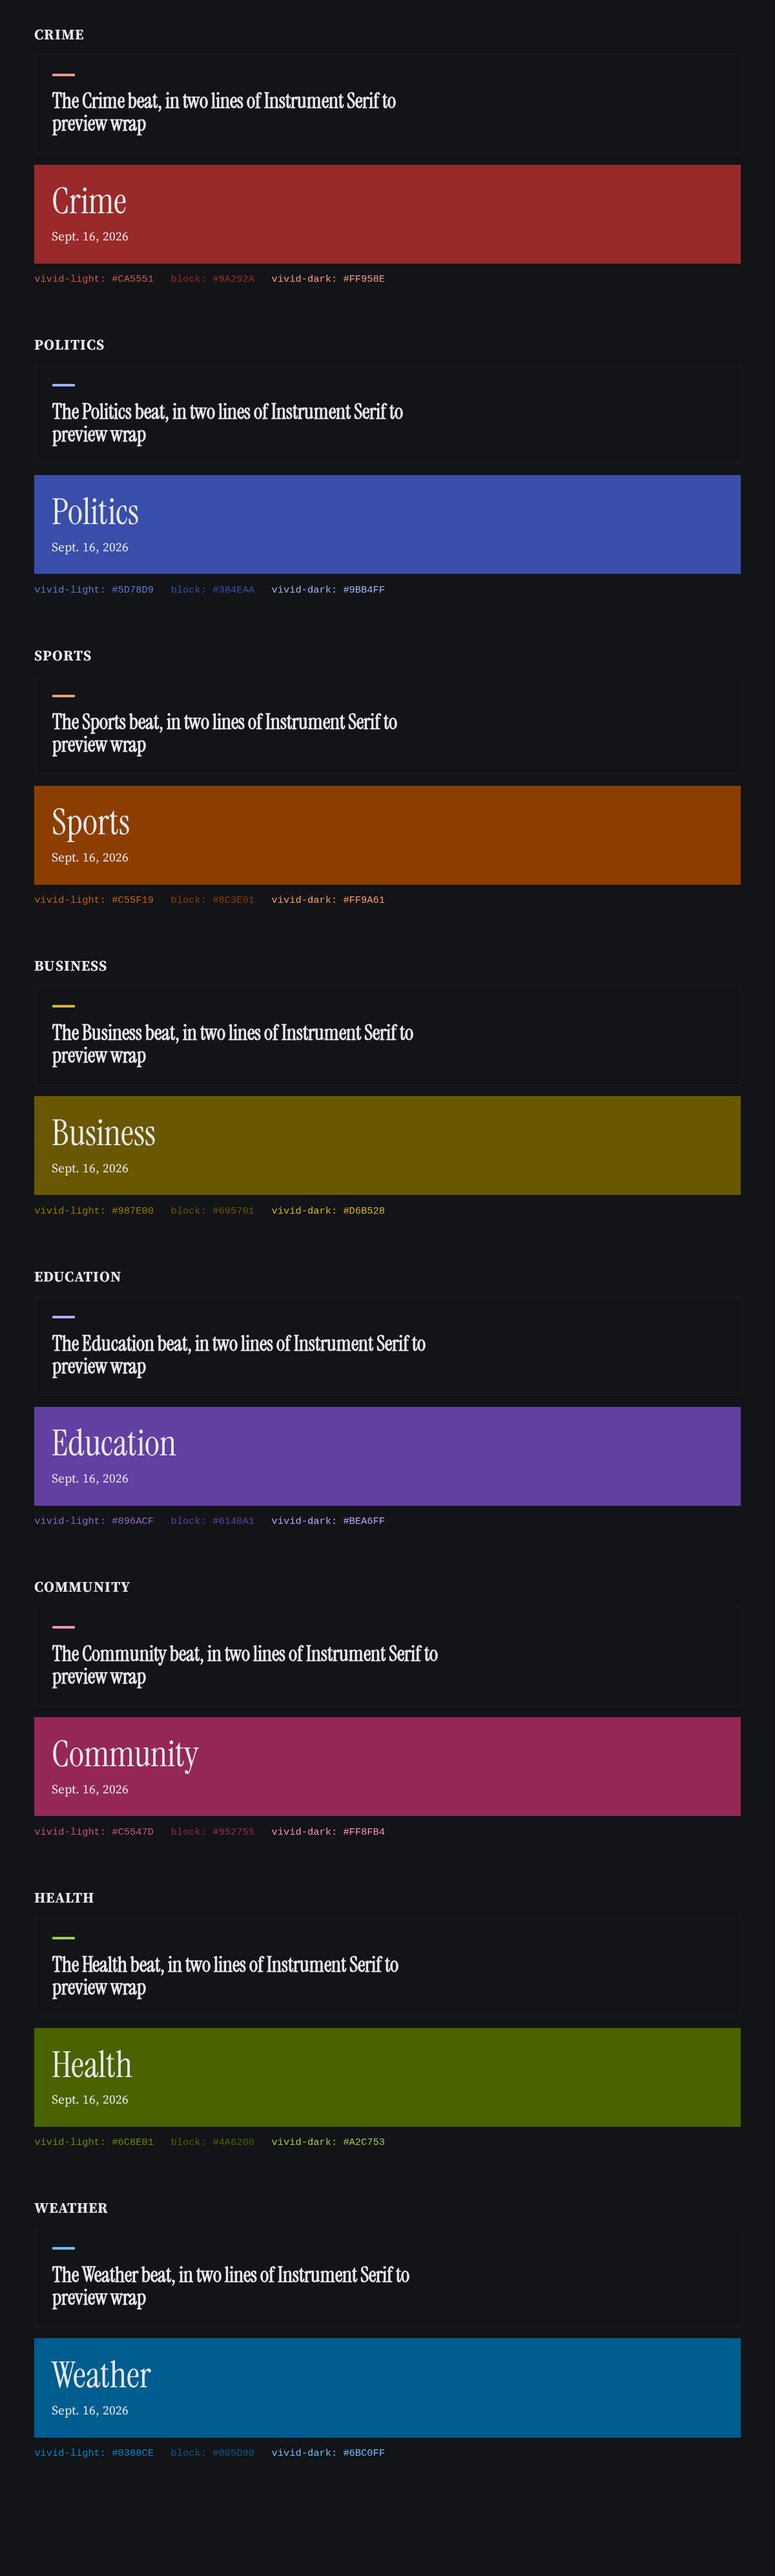
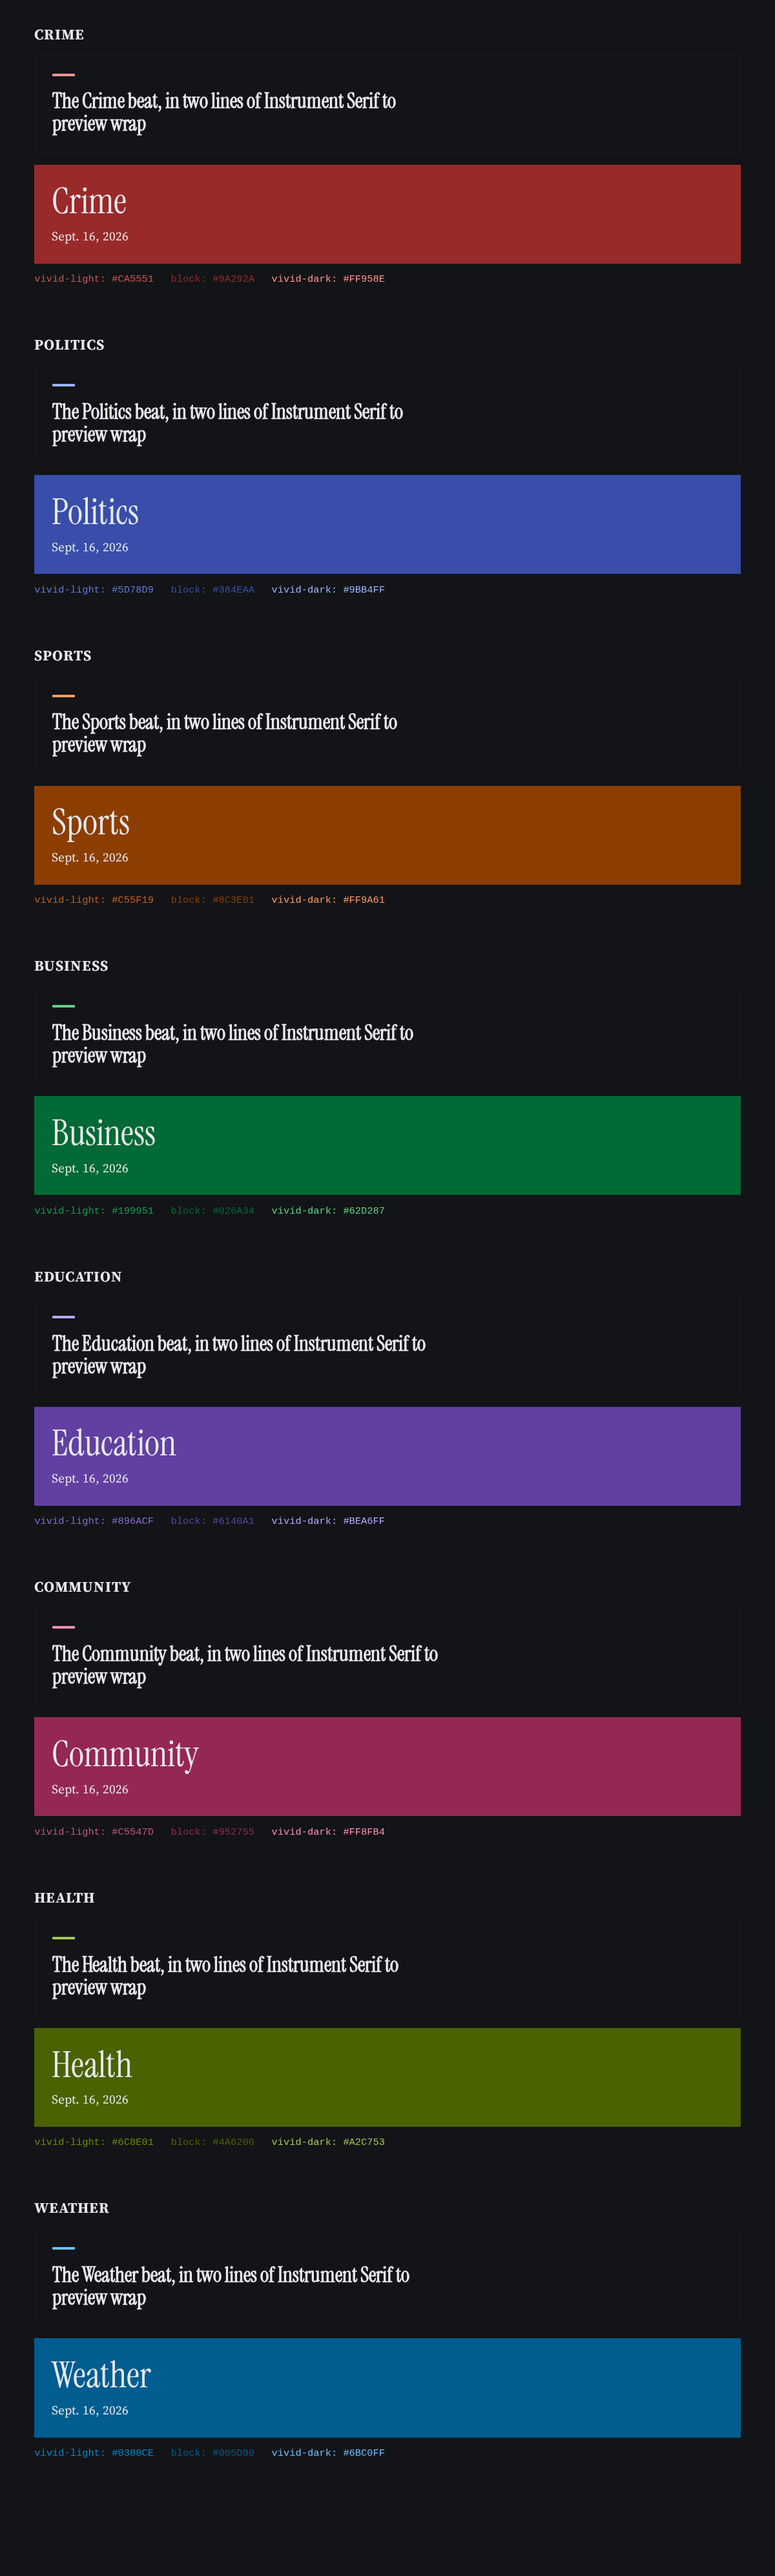
feat(01-16): regenerate swatch evidence, verify nav-stripe distinctness, close WINDOWS entry 3 (Task 2)
- pnpm run palette:swatches: regenerated both theme swatches with the
  new Business colour. Both PNGs newer than palette.json, >10KB,
  >=1200px wide; on-page hex labels verified against palette.md by the
  script's own check. Business now renders as a clear forest green in
  both themes -- no amber/olive/brown cast.
- node design/scripts/pw.mjs --project=all design/tests/content.spec.ts:
  37/37 passing in both Chromium and WebKit, including the nav-stripe
  pairwise-distinctness check per theme.
- .planning/WINDOWS.md: entry 3 marked fixed via `gsd-tools windows
  fixed 3`, description updated to record what actually happened --
  Sports was accepted by the owner in round 1 in their own words
  ("sports is more redish, thats ok", 01-APPROVAL.md), and Business was
  re-sampled outside the 40-100deg band entirely rather than accepted
  as a borderline colour. Entry 2 (politics photo) left untouched and
  open, as instructed -- its confirmation belongs to 01-23.

Changed region(s): [[0.0308, 0.4044, 0.9558, 0.4666]]

diff --git a/.planning/WINDOWS.md b/.planning/WINDOWS.md
@@ -1,10 +1,10 @@
 ---
 schema_version: 1
-open_count: 4
+open_count: 3
 waived_count: 0
-fixed_count: 11
+fixed_count: 12
 total_count: 15
-last_updated: 2026-09-17T20:43:14.690Z
+last_updated: 2026-09-17T21:14:35.114Z
 ---
 
 # Broken Windows Ledger
@@ -17,7 +17,7 @@ last_updated: 2026-09-17T20:43:14.690Z
 |----|-------|------|------|------|-------------|--------|--------|-------------|-------------|
 | 1 | 01 | deviation | design/tests/support/geometry.ts |  | UPDATED by 01-09: the original "never composites, regardless of hold duration" claim was based on a single page/scenario and is not universal. 01-09's full swap matrix shows prePaintObserved:false (WebKit-Docker never paints a pre-swap frame) specifically on category.html@320px, changelog.html and contact.html, but prePaintObserved:true (it does composite and geometryScore is real, non-zero) on index.html, article.html and category.html@1280px -- page-dependent, not a blanket engine limitation. measureFontSwap still reports the flag honestly either way. Not independently confirmable against real Safari on this Arch Linux machine. Spot-check before 01-APPROVAL.md sign-off. | open |  | 2026-09-16T19:32:05.866Z |  |
 | 2 | 01 | deviation | design/palette/photo-sources.json |  | politics' photo is Santa Fe NM dusk sky, not literally the Franklin Mountains/El Paso skyline the subject names -- flagged for owner review before 01-APPROVAL.md | open |  | 2026-09-16T20:48:47.479Z |  |
-| 3 | 01 | deviation | design/evidence/palette.md |  | Sports (49.4deg) and Business (94.5deg) block-stop hues visually sit near the amber-olive-reading-as-brown risk C-01 flags -- flagged for owner review, not resolved unilaterally | open |  | 2026-09-16T20:48:47.571Z |  |
+| 3 | 01 | deviation | design/evidence/palette.md |  | UPDATED by 01-16 (D-GAP-C): Sports (49.4deg) was accepted by the owner in round-1 review in their own words ("sports is more redish, thats ok" -- 01-APPROVAL.md). Business (formerly 94.5deg, marigold-sourced) was re-sampled from a new photo (the neon sign of the real "Kentucky Club & Grill" bar in Ciudad Juárez) and now sits at 152.1deg, outside the 40-100deg amber/olive band entirely -- it no longer reads as brown by construction, not by owner acceptance of a borderline colour. | fixed |  | 2026-09-16T20:48:47.571Z | 2026-09-17T21:14:35.114Z |
 | 4 | 01 | deviation | design/tests/font-cls.spec.ts |  | WebKit font-swap CLS gate fails on index.html/category.html (geometryScore up to 0.76 vs 0.005 threshold) — root-caused to the pinned Docker WebKit test image lacking Georgia/Noto Serif (only Liberation family installed per fc-list), forcing the worst-compatible fallback tier; Chromium passes cleanly. Non-blocking per human_verify_mode:end-of-phase; needs real-Safari spot-check before 01-APPROVAL.md. | fixed |  | 2026-09-17T00:46:16.920Z | 2026-09-17T18:31:44.285Z |
 | 5 | 01 | deviation | design/mockups/article.html |  | WebKit font-swap CLS gate fails on article.html (geometryScore 0.143 @320px vs 0.005 threshold) -- same root cause as entry 4 (pinned Docker WebKit test image lacks Georgia/Noto Serif, falls to Liberation Serif fallback tier); Chromium passes cleanly (0.0096 worst case after fixing a centering bug that used a font-relative ch unit with margin:auto). Non-blocking per human_verify_mode:end-of-phase; same real-Safari spot-check as entry 4 covers this. | fixed |  | 2026-09-17T01:20:11.946Z | 2026-09-17T18:31:44.383Z |
 | 6 | 01 | deviation | design/mockups/changelog.html |  | Chromium reports native CLS 0.0125 (vs 0.005 threshold) on changelog.html @320px font swap, but this project's own geometry-based instrument (the primary, engine-independent D-08 measurement) reports geometryScore 0 for the same swap, and a direct check confirmed zero elements moved within the visible viewport -- all reflow is below the fold. WebKit passes cleanly on the same page. Investigated with layout-shift source attribution, which showed unchanged before/after rects for the reported sources, consistent with a Chromium native-CLS attribution quirk on text-dense pages rather than a real user-visible shift. No CSS bug found (line-heights, margins and centering all checked) and no threshold weakened. Flagged for owner judgement per human_verify_mode:end-of-phase. | fixed |  | 2026-09-17T01:20:12.039Z | 2026-09-17T06:32:42.431Z |
@@ -63,11 +63,11 @@ last_updated: 2026-09-17T20:43:14.690Z
     "phase": "01",
     "file": "design/evidence/palette.md",
     "line": null,
-    "description": "Sports (49.4deg) and Business (94.5deg) block-stop hues visually sit near the amber-olive-reading-as-brown risk C-01 flags -- flagged for owner review, not resolved unilaterally",
-    "status": "open",
+    "description": "UPDATED by 01-16 (D-GAP-C): Sports (49.4deg) was accepted by the owner in round-1 review in their own words (\"sports is more redish, thats ok\" -- 01-APPROVAL.md). Business (formerly 94.5deg, marigold-sourced) was re-sampled from a new photo (the neon sign of the real \"Kentucky Club & Grill\" bar in Ciudad Juárez) and now sits at 152.1deg, outside the 40-100deg amber/olive band entirely -- it no longer reads as brown by construction, not by owner acceptance of a borderline colour.",
+    "status": "fixed",
     "reason": "",
     "recorded_at": "2026-09-16T20:48:47.571Z",
-    "resolved_at": null
+    "resolved_at": "2026-09-17T21:14:35.114Z"
   },
   {
     "id": 4,

diff --git a/changelog/2026-09-17-1516_01-16-regenerate-swatch-evidence-verify-nav-stripe.md b/changelog/2026-09-17-1516_01-16-regenerate-swatch-evidence-verify-nav-stripe.md
@@ -1,0 +1,71 @@
+# 2026-09-17 - Swatch Evidence Regenerated, Nav-Stripe Distinctness Verified, WINDOWS Entry 3 Closed
+
+**Keywords:** [FEATURE] [TESTING] [DOCUMENTATION]
+
+**Commit:** find with `git log --diff-filter=A -1 --format=%H -- changelog/2026-09-17-1516_01-16-regenerate-swatch-evidence-verify-nav-stripe.md`
+
+## What Changed
+
+- `design/evidence/palette-swatches-{light,dark}.png`: regenerated via
+  `pnpm run palette:swatches` against the new Business colour. Both PNGs
+  are newer than `palette.json`, over 10KB, at least 1200px wide, and
+  the script's own in-page hex-label check confirms every displayed
+  colour matches `palette.md` exactly. Visually, Business now renders
+  as a clear forest green in both light and dark themes — no
+  amber/olive cast, clearly distinguishable from Health's olive-green
+  and Sports's amber.
+- Ran `node design/scripts/pw.mjs --project=all design/tests/content.spec.ts`:
+  37/37 tests pass in both Chromium and WebKit, including the
+  pairwise-distinctness check on the eight nav stripe colours per theme.
+- `.planning/WINDOWS.md`: entry 3 marked `fixed` via
+  `gsd-tools windows fixed 3`, with its description rewritten (both the
+  markdown row and the JSON block, kept in sync) to record the actual
+  outcome rather than leave the original "flagged for owner review"
+  wording stale — Sports (49.4deg) was accepted by the owner in round 1
+  in their own words ("sports is more redish, thats ok", per
+  `01-APPROVAL.md`), while Business was re-sampled to 152.1deg, fully
+  outside the 40-100deg amber/olive band, so it no longer reads as
+  brown by construction rather than by owner tolerance of a borderline
+  colour. Entry 2 (the politics photo substitution) was left untouched
+  and still `open`, per the plan's instruction — its confirmation
+  belongs to the phase's 01-23 re-review, not this plan.
+
+## Why
+
+Task 1 fixed the underlying colour; this task makes that fix visible in
+the same evidence artifacts the owner and the phase's automated checks
+already rely on, and updates the cross-phase defect ledger so the fix
+is recorded where `/gsd-ship`'s windows-enforcement gate will see it.
+
+## Issues Encountered
+
+None — every check passed on the first run once Task 1's palette
+change was in place.
+
+## Dependencies
+
+No dependencies added.
+
+## Testing Notes
+
+- What was tested: `pnpm run palette:swatches` (both PNGs pass the
+  script's own size/width/hex-match checks); `content.spec.ts` in both
+  engines (37/37 passing, including nav-stripe distinctness); visual
+  read of both regenerated swatch PNGs against C-01's "does it read as
+  brown" question.
+- What wasn't tested: this remains a human aesthetic judgement per
+  C-01 — the phase's end-of-phase human check (collected at 01-23)
+  still applies to the Business masthead and both swatch PNGs.
+
+## Next Steps
+
+- [ ] Plan-level metadata commit (SUMMARY, STATE, ROADMAP)
+- [ ] End-of-phase human check at 01-23: owner looks at the Business
+      masthead on category.html in both themes and at both swatch PNGs
+
+---
+
+**Branch:** feature/phase-01
+**Issue:** N/A
+**Impact:** LOW - regenerates evidence artifacts and closes one ledger
+entry; no code, threshold, or gate changed.

diff --git a/changelog/README.md b/changelog/README.md
@@ -10,6 +10,7 @@ Entries are named `YYYY-MM-DD-HHMM_slug.md` and grouped by month, newest first.
 
 | Date | Entry | Keywords |
 |------|-------|----------|
+| 2026-09-17 | [Swatch Evidence Regenerated, Nav-Stripe Distinctness Verified, WINDOWS Entry 3 Closed](2026-09-17-1516_01-16-regenerate-swatch-evidence-verify-nav-stripe.md) | `[FEATURE]` `[TESTING]` `[DOCUMENTATION]` |
 | 2026-09-17 | [Business's Palette Hue Re-Sampled From a Real Juárez Neon Sign](2026-09-17-1512_01-16-re-sample-business-hue-from-a-real-ju-rez-ne.md) | `[FEATURE]` `[BUG_FIX]` |
 | 2026-09-17 | [Phase 1 Plan 15 Complete: D-15/I18N-07 Closed, Spanish Calibration Made More Robust](2026-09-17-1443_01-15-complete-plan-summary-state-roadmap-windows-.md) | `[DOCUMENTATION]` `[PLANNING]` |
 | 2026-09-17 | [Every Spanish Stress String Recalibrated; a Real Small-Size Measurement Gap Fixed](2026-09-17-1440_01-15-recalibrate-every-spanish-component-widen-hi.md) | `[FEATURE]` `[TESTING]` `[BUG_FIX]` |
